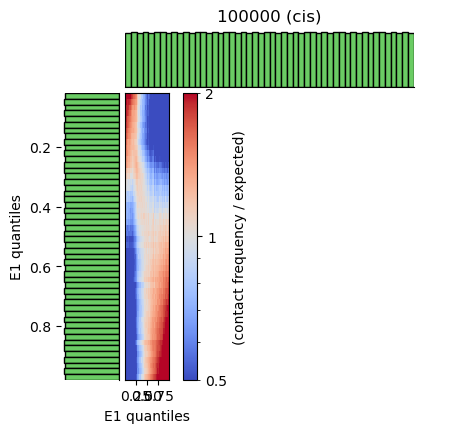
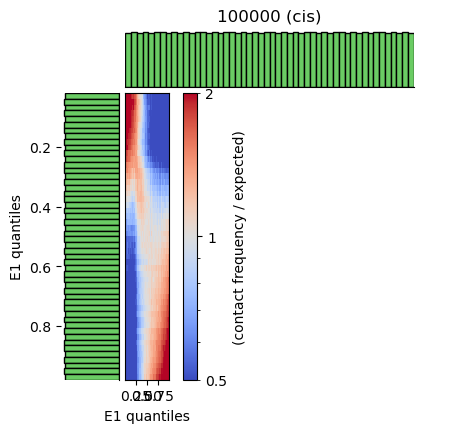
docs(use-cases): update Hi-C report (contact map placement, data flow) and saddle plot image

Changed region(s): [[0.2751, 0.2102, 0.3668, 0.9007]]

diff --git a/use-cases/hi-c-analysis.md b/use-cases/hi-c-analysis.md
@@ -99,6 +99,8 @@ The workflow uses `test.mcool` at multiple resolutions (10 kb, 100 kb, 1 Mb) and
 >
 > The image is a 242×242 contact matrix for chr2 (0–242,193,529 bp), showing Hi-C contact frequency. The MCP tool wrote the figure to a temp path; it was then copied to the working directory.
 
+![chromosome 2 contact map](./chr2_1Mb_contact_map.png)
+
 **User Query:**
 > How about chr17?
 
@@ -135,8 +137,6 @@ The workflow uses `test.mcool` at multiple resolutions (10 kb, 100 kb, 1 Mb) and
 
 **Chat Response:**
 > The chromosome 17 contact map at 1 Mb resolution has been generated and saved as **`contact_map_chr17_1mb.png`**. Chr17 is shorter than chr2, so the matrix is smaller (~83×83 bins).
-
-![chromosome 2 contact map](./chr2_1Mb_contact_map.png)
 
 ![chromosome 17 contact map](./chr17_1Mb_contact_map.png)
 
@@ -455,11 +455,11 @@ Tools run in Docker as defined in their CWL:
 
 ### Data Flow
 
-1. **Contact maps**: mcool + uri + range → cooler show → PNG matrix.
-2. **Expected**: mcool + uri + view_bed → cooltools expected-cis → TSV (region pair, distance, contact_frequency).
-3. **Compartments**: mcool + uri + GC track + view → cooltools eigs-cis → eigenvectors TSV + eigenvalues; E1 phased by GC.
-4. **Saddle**: mcool + expected TSV + eigenvector TSV + view → cooltools saddle → PNG + NPZ + digitized TSV.
-5. **TADs**: mcool at 10 kb + view + windows + Li threshold → cooltools insulation → TSV with insulation scores and is_boundary_*.
+1. **Contact maps**: The multi-resolution Hi-C file (mcool) is read at a chosen resolution and genomic range; cooler show renders the contact matrix as a heatmap image for the requested chromosome(s).
+2. **Expected contacts**: cooltools expected-cis computes the average contact frequency as a function of genomic distance within the regions defined in the view file, producing a decay curve used later for normalization and saddle plots.
+3. **Compartments**: cooltools eigs-cis performs eigenvalue decomposition on the observed/expected contact matrix; the first eigenvector (E1) is the compartment signal, and a GC content track is used to phase it so that positive E1 corresponds to GC-rich (active) and negative to GC-poor (inactive) regions.
+4. **Saddle plot**: cooltools saddle bins genomic bins by their E1 value and plots observed/expected contact enrichment between bin pairs; the resulting image shows whether A–A and B–B interactions are enriched (compartmentalization) and A–B depleted.
+5. **TAD boundaries**: cooltools insulation computes a diamond insulation score at each bin; low scores mark boundaries between domains. The Li method is used to choose a threshold and flag bins as boundaries, yielding a table of insulation scores and boundary calls for each window size.
 
 ### Output Files
 
